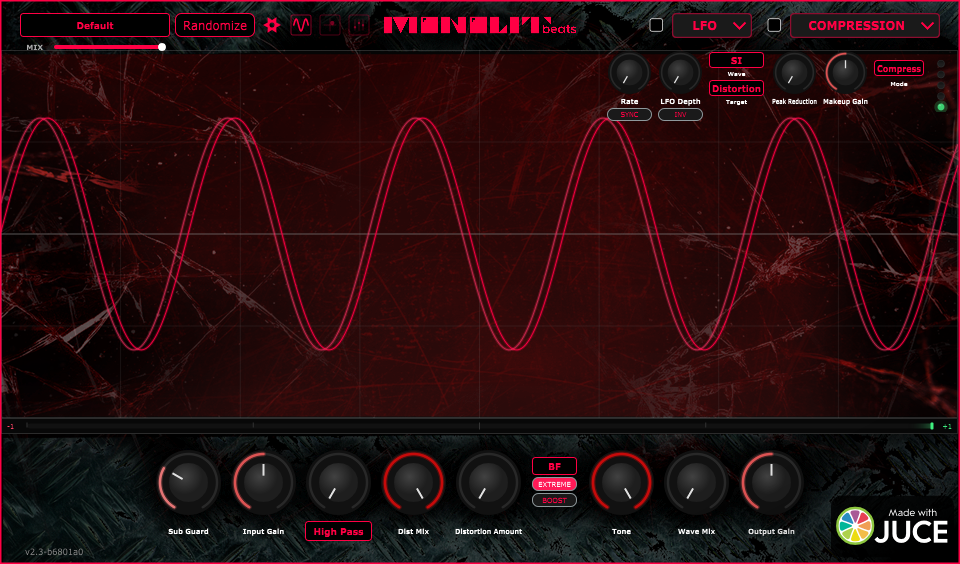
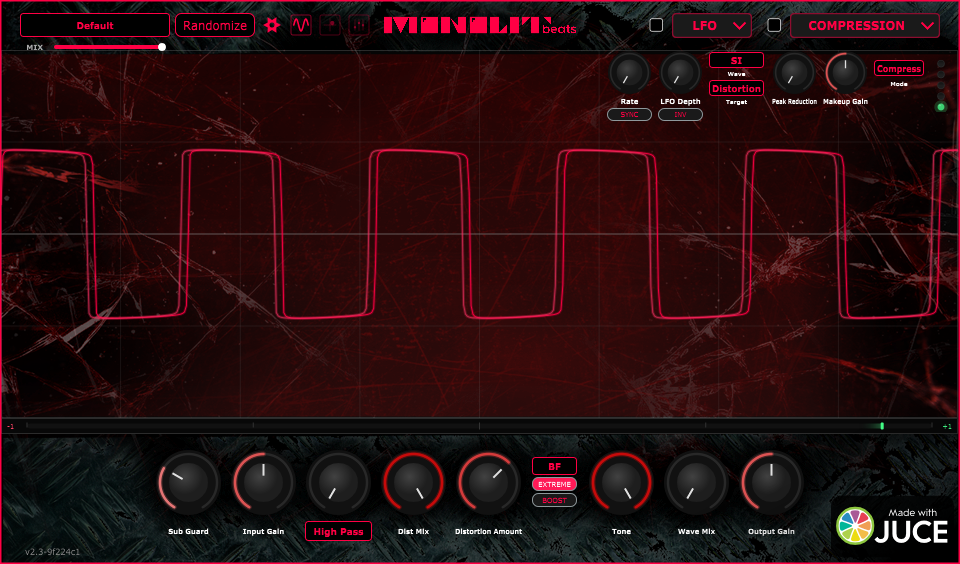
UiSnapshot: drive the distortion in --signal renders
The previous --signal screenshot was a picture of true bypass. distortionAmount
defaults to 0 and compEnabled to false, so the bypass branch at
PluginProcessor.cpp:1608 takes the audio - and the scope is deliberately fed
even there, so the render showed a clean sine passing through an inert plugin.
Real output, but a distortion plugin demonstrating no distortion.

feedScope now sets distortionAmount to 65% before the blocks run, well past the
0.5% bypass threshold. On the default Brutal Fuzz clip the sine comes back
hard-clipped, and the knob position in the rendered UI matches the trace rather
than contradicting it.

This also makes the 220 Hz choice do the work it was picked for: sitting above
the Sub Guard crossover only matters once there is distortion for the low band
to be routed around.

The README caption now discloses the drive setting alongside the EXTREME mode,
since neither is the default state.

Verified: with --signal off the render is byte-identical (sha256 20de5e84...) to
the pre-change binary's output at this same commit, so the layout gate is
unaffected.

Claude-Session: https://claude.ai/code/session_01RdDBNCwqoSQ6Av9zCDkLQm

Changed region(s): [[0.0, 0.211, 1.0, 0.633], [0.4688, 0.7837, 0.5312, 0.9043], [0.0312, 0.9645, 0.0938, 0.9947]]

diff --git a/Source/Tools/UiSnapshot.cpp b/Source/Tools/UiSnapshot.cpp
@@ -78,6 +78,16 @@ void feedScope(PluginProcessor& proc)
     // A small offset keeps the two stereo traces distinguishable in the render.
     constexpr double rightPhaseOffset = 0.25;
 
+    // Drive the distortion. Without this the render is a picture of true bypass:
+    // distortionAmount defaults to 0 and compEnabled to false, so processBlock
+    // takes the bypass branch (PluginProcessor.cpp), which still feeds the scope
+    // - producing a clean sine that shows the plugin doing nothing at all.
+    // 65% on the default Brutal Fuzz clip is well past the 0.5% bypass threshold
+    // and gives visible saturation rather than a barely-bent sine.
+    constexpr float driveNormalised = 0.65f;   // range is 0-100, so this is 65%
+    if (auto* p = proc.parameters.getParameter("distortionAmount"))
+        p->setValueNotifyingHost(driveNormalised);
+
     juce::AudioBuffer<float> buffer(2, blockSize);
     juce::MidiBuffer midi;
 

diff --git a/README.md b/README.md
@@ -14,7 +14,7 @@ oscilloscope instead of hunting through menus and numeric fields.
 
 <img src="docs/images/scale-100-extreme-signal.png" alt="Sledge Distortion plugin interface" width="880">
 
-<sub>Shown with the "EXTREME" mode enabled</sub>
+<sub>Shown with the "EXTREME" mode enabled, Distortion Amount at 65%</sub>
 
 </div>
 
